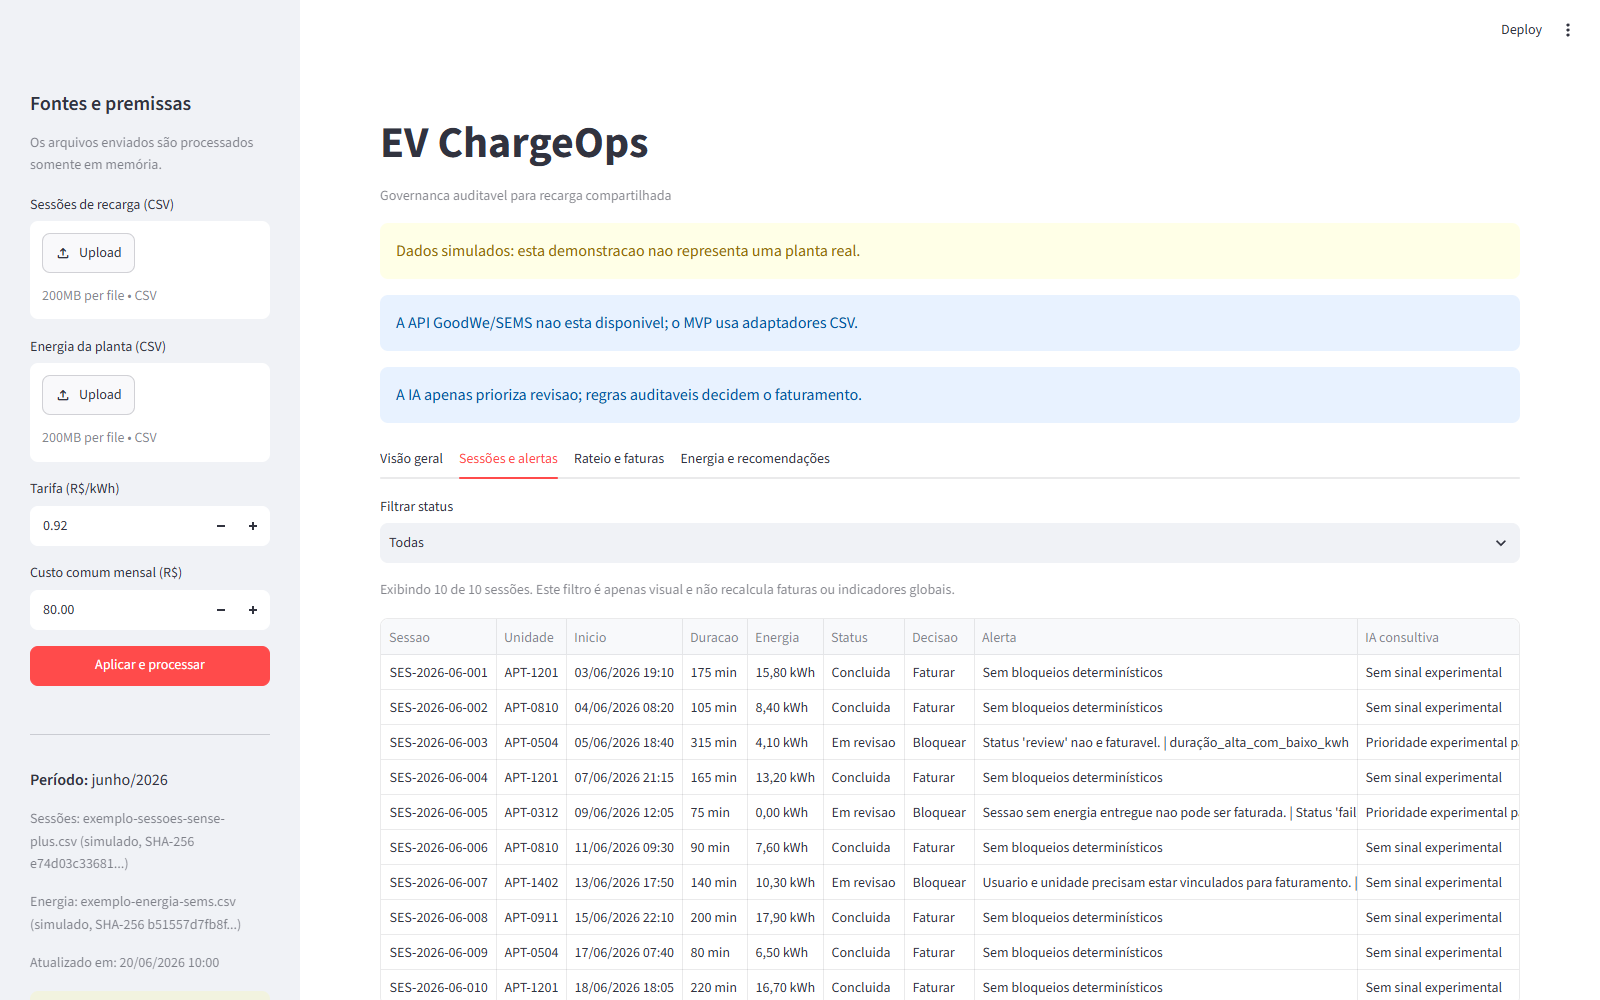
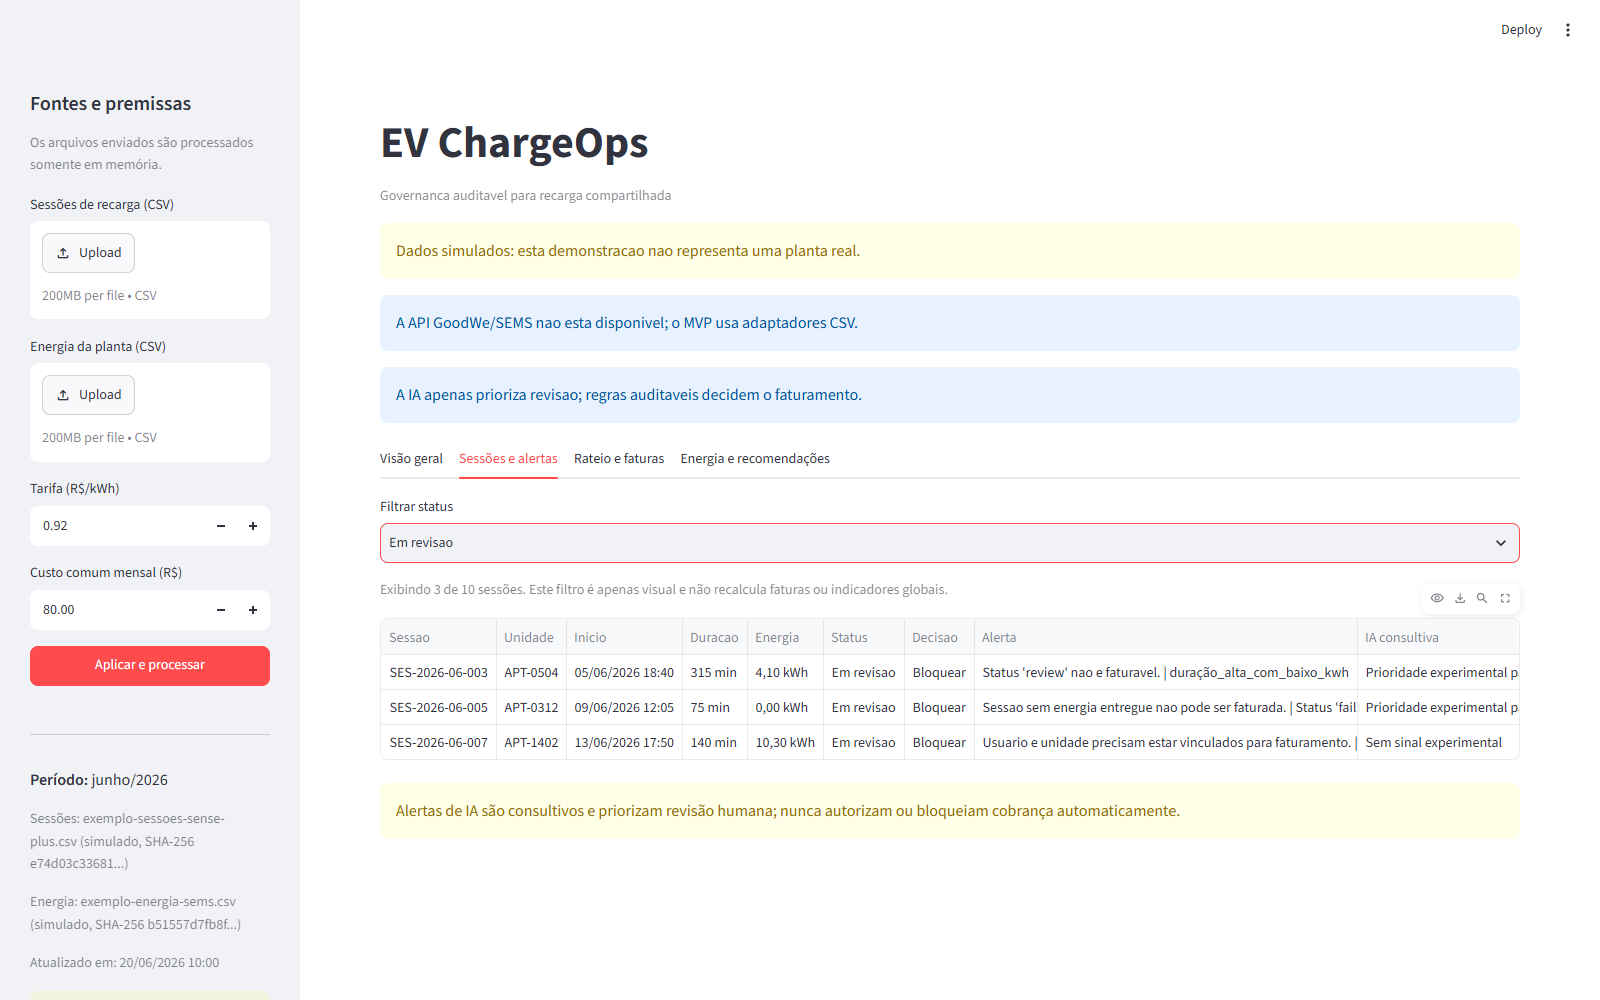
reconcile-pitch-docs-and-evidence

diff --git a/docs/pitch/evidencias-e-comandos.md b/docs/pitch/evidencias-e-comandos.md
@@ -53,9 +53,9 @@ e custo comum de R$ 80,00.
 Ao trocar a tarifa para R$ 1,00/kWh, o total deve mudar para R$ 166,10, sem alterar os 86,10
 kWh faturáveis nem os R$ 80,00 de custo comum. Retorne a tarifa para R$ 0,92 antes de gravar.
 
-## Capturas necessárias
+## Capturas validadas
 
-Crie `assets/prints/` somente no momento de registrar a execução e salve estas imagens:
+As evidências da execução estão versionadas em `assets/prints/`:
 
 1. `assets/prints/01-visao-geral.png` — cinco indicadores, avisos de dados simulados e tabela
    de reconciliação completa;

diff --git a/README.md b/README.md
@@ -407,8 +407,8 @@ enterprise-challenge-goodwe/
   README.md
 ```
 
-Os quatro arquivos em `assets/prints/` são nomes reservados para as capturas da execução e
-serão criados durante a preparação do vídeo; eles não fazem parte do código-fonte.
+Os quatro arquivos em `assets/prints/` registram a execução validada do MVP e estão prontos
+para uso no vídeo do pitch.
 
 ## Fontes
 
